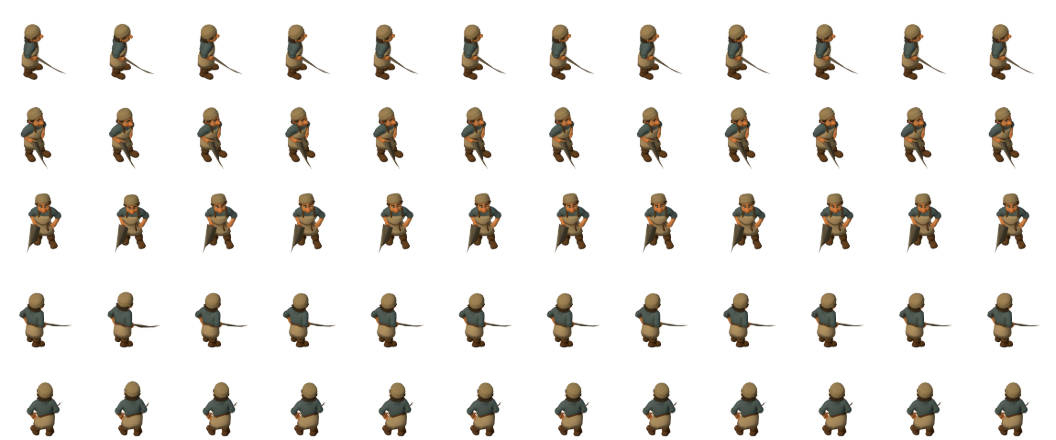
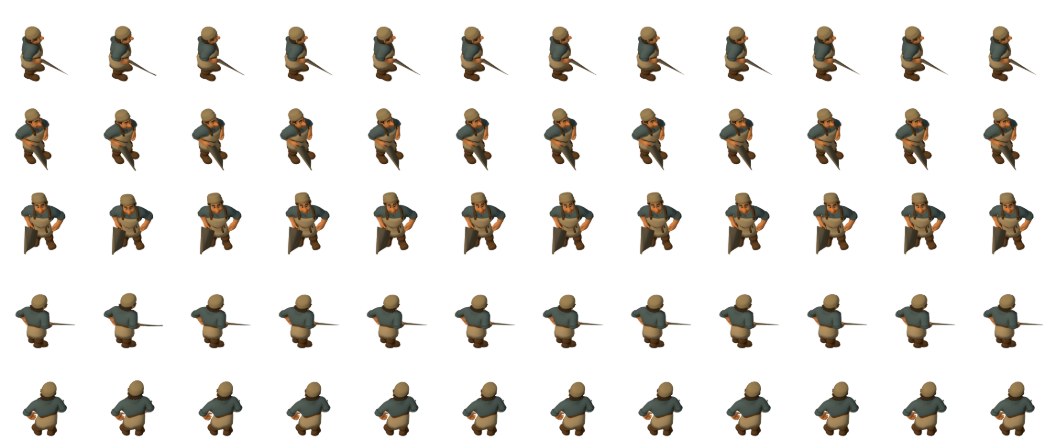
Asterix-Silhouetten: Berufe unterscheiden sich in der Koerperform
Spielerwunsch: die GLB-Figuren sollen sich wie bei Asterix deutlich
in Koerperform und Farbe unterscheiden. Neu im Sprite-Baecker:
'koerper' in posen.js skaliert Knochen statisch [sx,sy,sz] - Y bleibt
1 (Hoehe und UNIT_FIT unveraendert), nur die Silhouette aendert sich.
Weil die Tripo-Clips eigene Scale-Spuren fuehren, multipliziert
bake()/center() die Faktoren je Frame NACH dem Stellen des Clips auf;
Kinder erben die Skalierung, der Hals bekommt den Kehrwert, damit der
Kopf normal bleibt.

Neu gebacken (Kennfarben danach frisch aufgetragen):
  Fischer  DICK      Bauch 1,45 - der dicke Fischhaendler
  Metzger  DICK      mit Schuerze
  Mueller  RUNDLICH  1,28
  Baecker  RUNDLICH
  Schmied  STAEMMIG  breite Schultern (erste Fassung 1,26 wirkte als
                     Gorilla-Klotz, auf 1,16 zurueckgenommen)
  Foerster SCHLANK   0,85
  Jaeger   DRAHTIG   0,80 (inkl. Bogen-Werkzeug und Schuss-Geste)

Die Angel-Pose des Fischers laesst sich nicht neu backen (keine
Posen-Schluessel) - unit_fisher_atk + _atk_tool sind stattdessen
identisch horizontal auf 1,18 gedehnt, Overlay bleibt deckungsgleich.
Tunika-Fenster nachgezogen: Fischer breiter (Tarnflecken auf dem
Neu-Bake), Schmied nur noch dunkle Kluft bis Luma 95 (Lederteile
behalten als Braun die Binnenzeichnung).

Claude-Session: https://claude.ai/code/session_01NJiXwFpbq91ri9gPbhzERB

diff --git a/tools/posen.js b/tools/posen.js
@@ -23,8 +23,50 @@
 // Stützhand-Kürzel wie in den agentS-Posen: ruhig vor der Brust
 const FRAMES_ATK = 8;
 
+// ---------- Koerperbau (Asterix-Silhouetten, Spielerwunsch) ----------------
+// 'koerper' skaliert Knochen statisch [sx,sy,sz] - Y bleibt 1 (Hoehe und
+// UNIT_FIT unveraendert), nur die SILHOUETTE aendert sich (der Kritiker:
+// ±20 % Breite liest sich auf Spielzoom klar). Kinder erben die Skalierung:
+// wer Waist/Spine verbreitert, gibt dem Hals den Kehrwert zurueck, damit
+// der Kopf normal bleibt. Hierarchie: Hip -> {Pelvis -> Thighs,
+// Waist -> Spine01 -> Spine02 -> {NeckTwist01 -> Head, Clavicles -> Arme}}.
+const DICK={     // runder Bauch, stramme Beine (Fischer, Metzger)
+  Waist:[1.45,1,1.50], Spine01:[0.94,1,0.94],       // Bauch breit, Brust verjuengt
+  NeckTwist01:[0.74,1,0.72],                        // Kopf bleibt normal
+  L_Thigh:[1.14,1,1.14], R_Thigh:[1.14,1,1.14],
+};
+const RUNDLICH={ // gemuetlicher Ansatz (Mueller, Baecker)
+  Waist:[1.28,1,1.32], Spine01:[0.97,1,0.97],
+  NeckTwist01:[0.81,1,0.79],
+  L_Thigh:[1.08,1,1.08], R_Thigh:[1.08,1,1.08],
+};
+const STAEMMIG={ // breite Schultern, kraeftige Arme (Schmied)
+  // erste Fassung (Spine02 1,26 + Arme 1,14) wirkte als Gorilla-Klotz -
+  // eine Stufe zurueckgenommen liest er sich als stark, nicht aufgeblasen
+  Waist:[1.12,1,1.12], Spine02:[1.16,1,1.08],       // Schulterpartie breit
+  NeckTwist01:[0.82,1,0.86],
+  L_Upperarm:[1.07,1.02,1.07], R_Upperarm:[1.07,1.02,1.07],
+  L_Thigh:[1.08,1,1.08], R_Thigh:[1.08,1,1.08],
+};
+const SCHLANK={  // hager (Foerster)
+  Waist:[0.85,1,0.86], Spine01:[0.96,1,0.96],
+  NeckTwist01:[1.20,1,1.19],
+  L_Thigh:[0.92,1,0.92], R_Thigh:[0.92,1,0.92],
+};
+const DRAHTIG={  // sehnig-duenn (Jaeger)
+  Waist:[0.80,1,0.82], Spine01:[0.95,1,0.95],
+  NeckTwist01:[1.28,1,1.25],
+  L_Thigh:[0.88,1,0.88], R_Thigh:[0.88,1,0.88],
+};
+
 export const POSEN = {
+  fisher:  { koerper: DICK },
+  butcher: { koerper: DICK },
+  miller:  { koerper: RUNDLICH },
+  baker:   { koerper: RUNDLICH },
+  smith:   { koerper: STAEMMIG },
   hunter: {
+    koerper: DRAHTIG,
     // eingebauter (zerreißender) Bogen samt Streufragmenten
     entfernen: [49,93,94,97,101,105,114,115,117,118,124,126,129,130,132,136,140,141,166,169,170,179,183,186,192,194,195,200,205,206,213,216,217,221,224,235,245,249,259,267,270,273,278,282,292,297,298,300,320,321,327,328,333,338,347,350,355,360,364,368,370,374,375,376,385,387,388,391,394,401,403,408,414,420,440,467,473,478,490,495,502,505,509,518,519,521,538,598,601,602,603,643,644,839,1552,1742,1855,1889,1890,1891,1899,1904,2973,3111,3254,3255,3807,3808,3809,3810,4919,4921,5142,5143,5147,5613,5614,5617,5622,6101,6102,6168,6169,6171,6174,6178,6200,6217,6222,6224,6225,6226,6230,6239,6243,6244,6245,6258,6265,6280,6284,6286,6287,6288,6289,6291,6298,6304,6306,6309,6322,6323],
     // Werkzeug je Blatt: getragen (Gehen/Warten) hängt der Bogen längs der
@@ -63,6 +105,7 @@ export const POSEN = {
             Spine01:[4,0,0] },
   },
   forester: {
+    koerper: SCHLANK,
     // Der Setzling steckt sauber geskinnt in der linken Hand des Meshes -
     // nichts zu entfernen, kein Zusatzwerkzeug.
     // Pflanzen: bücken - Setzling in den Boden (Spalte 4) - andrücken - aufrichten.

diff --git a/tools/bake-sprites.html b/tools/bake-sprites.html
@@ -92,6 +92,28 @@ window.poseAdd=(rots)=>{
   root.updateMatrixWorld(true);
 };
 window.bones=()=>[...boneMap.keys()];
+// ---- Koerperbau (Asterix-Silhouetten) ------------------------------------
+// Statische Knochen-Skalierung ueber der Clip-Pose: dick, drahtig, breit.
+// Die Tripo-Clips fuehren eigene Scale-Spuren (konstant 1) - der Mixer
+// ueberschreibt eine einmalig gesetzte Skalierung bei jedem setTime. Darum
+// merkt sich koerper() nur die Faktoren, und bake()/center() multiplizieren
+// sie NACH dem Stellen des Clips je Frame auf. Y bleibt ueberall 1, damit
+// Koerperhoehe und UNIT_FIT unveraendert bleiben; Kinder erben die
+// Skalierung (wer den Bauch verbreitert, gibt dem Hals den Kehrwert).
+let KOERPER=null;
+window.koerper=(scales)=>{
+  for(const n in scales) if(!boneMap.get(n)) return 'FEHLT '+n;
+  KOERPER=scales;
+  return 'ok';
+};
+function koerperAnwenden(){
+  if(!KOERPER) return;
+  for(const n in KOERPER){
+    const b=boneMap.get(n), s=KOERPER[n];
+    b.scale.x*=s[0]; b.scale.y*=s[1]; b.scale.z*=s[2];
+  }
+  root.updateMatrixWorld(true);
+}
 // Weltposition eines Knochens in der AKTUELLEN Pose (nach bake/center/poseAdd)
 // – für numerische Achsen-Kalibrierung statt Augenmaß
 window.bonePos=(name)=>{
@@ -390,6 +412,7 @@ window.center=(clipName, t, yawDeg, extra=null)=>{
   mixer.stopAllAction();
   if(clip){ const a=mixer.clipAction(clip); a.play(); mixer.setTime(Math.min(t, clip.duration-0.001)); }
   if(extra) window.poseAdd(extra);
+  koerperAnwenden();
   root.rotation.y=yawDeg*Math.PI/180;
   root.position.set(0,0,0);
   const bb=skinnedBox();
@@ -403,6 +426,7 @@ window.bake=(clipName, t, yawDeg, outH=300, ox=null, oz=null, extra=null)=>{
   mixer.stopAllAction();
   if(clip){ const a=mixer.clipAction(clip); a.play(); mixer.setTime(Math.min(t, clip.duration-0.001)); }
   if(extra) window.poseAdd(extra);
+  koerperAnwenden();
   root.rotation.y=yawDeg*Math.PI/180;
   if(ox!=null){
     root.position.set(-ox,0,-(oz||0));

diff --git a/sw.js b/sw.js
@@ -6,7 +6,7 @@
 // Server längst die neue auslieferte. Beim Installieren wird zusätzlich am
 // HTTP-Cache vorbei geladen (cache:'reload'), sonst holt sich der neue
 // Serviceworker über die noch gültigen Cache-Header wieder die alten Bytes.
-const BUILD = 'v179';
+const BUILD = 'v180';
 const CACHE = 'neuland-' + BUILD;
 const FILES = [
   './', './index.html', './style.css', './manifest.webmanifest',
